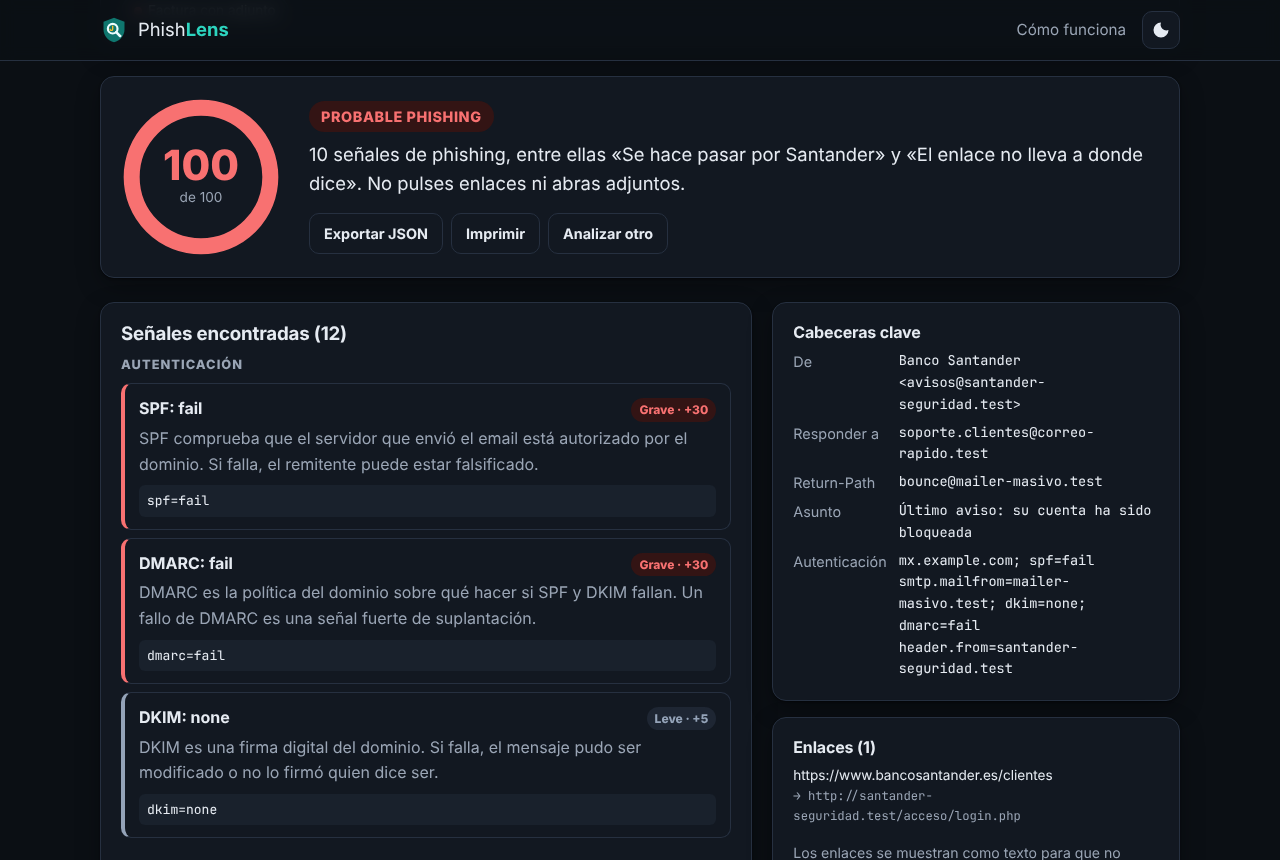
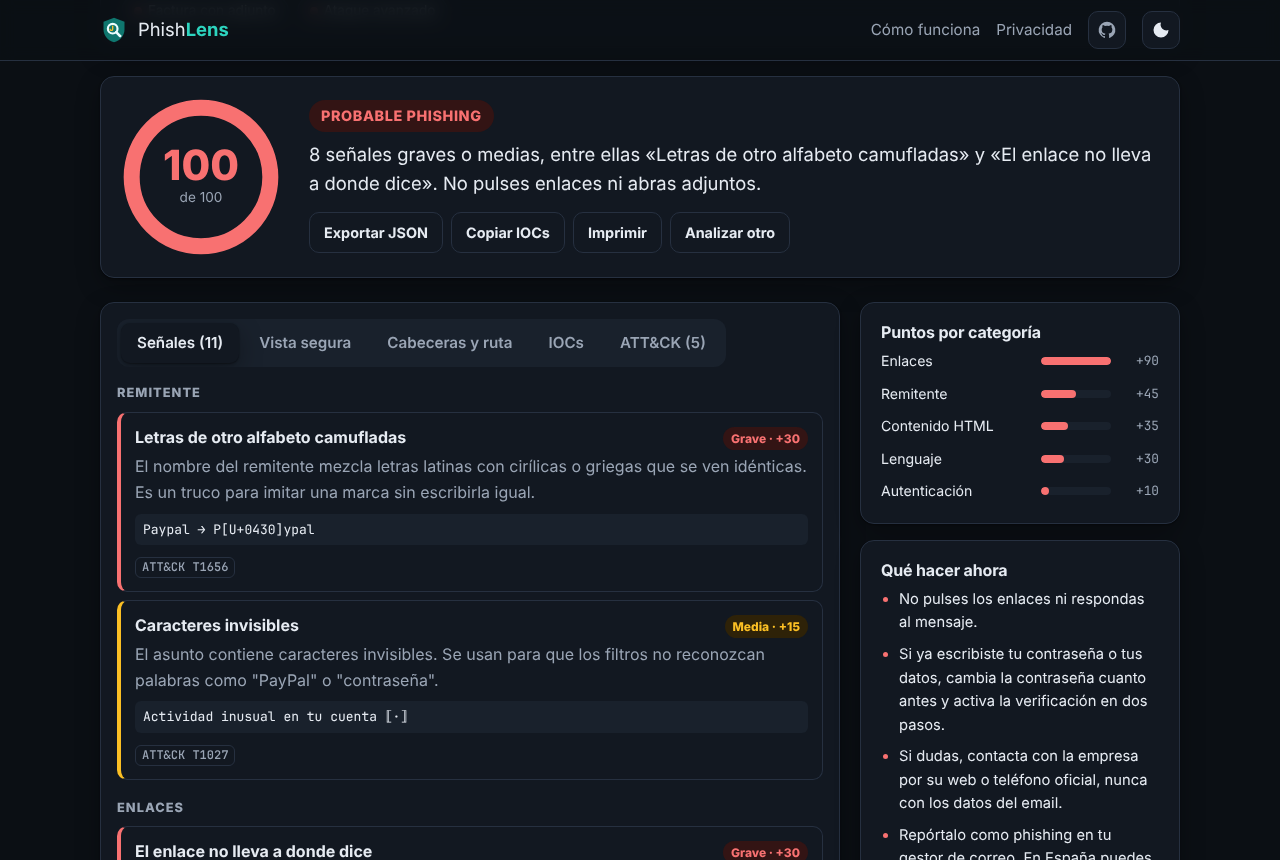
docs(proyectoCiber): README v2, licencia MIT, changelog, capturas e imagen para compartir
Claude-Session: https://claude.ai/code/session_01BKKrbNxeGre73fCh8dHKq8

diff --git a/CHANGELOG.md b/CHANGELOG.md
@@ -1,0 +1,20 @@
+# Changelog
+
+## 2.0.0 · 2026-10-21
+
+### Añadido
+- Detectores nuevos: **cabeceras técnicas** (Message-ID, Date, X-Mailer, ruta Received) y **contenido HTML** (formularios, scripts, `data:`, texto oculto, emails solo imagen).
+- Remitente: letras de otros alfabetos camufladas y caracteres invisibles.
+- Adjuntos: nombres invertidos con el carácter RLO.
+- Enlaces: descargas directas, enlaces de seguimiento y desenvoltura de Safe Links, Google y LinkedIn.
+- Mapeo de cada señal a **MITRE ATT&CK** y extracción de **IOCs defanged**.
+- Interfaz: pestañas del informe, vista segura con resaltado, ruta del email, desglose por categoría, recomendaciones, copiar IOCs y soltar archivos en toda la página.
+- Ejemplo 07 con un ataque avanzado, imagen para compartir, licencia MIT.
+
+### Corregido
+- Falsos positivos con dominios oficiales por país (`outlook.es`, `amazon.fr`…) y con palabras contenidas en marcas (`cloud` ⊂ `icloud`).
+- Parser de HTML, Received y URLs en tiempo lineal: un email malicioso ya no puede congelar la pestaña.
+
+## 1.0.0 · 2026-10-21
+
+- Primera versión: parser `.eml`, 6 detectores, puntuación de 0 a 100, interfaz web y 6 ejemplos.
